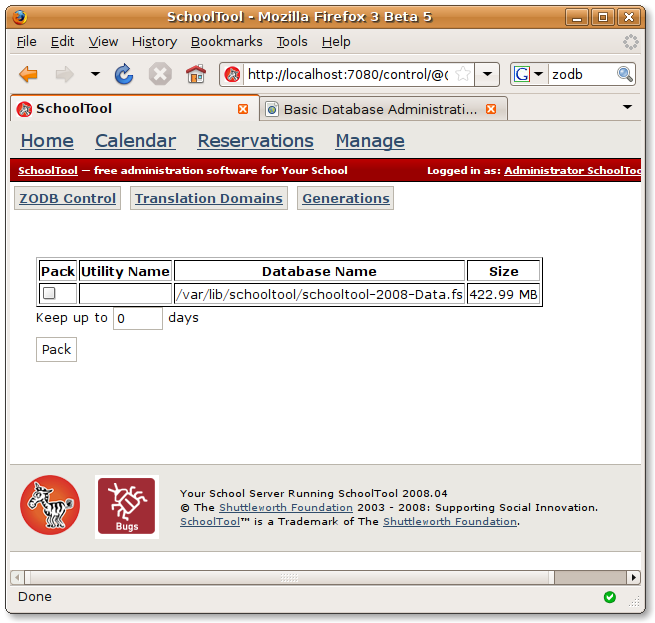
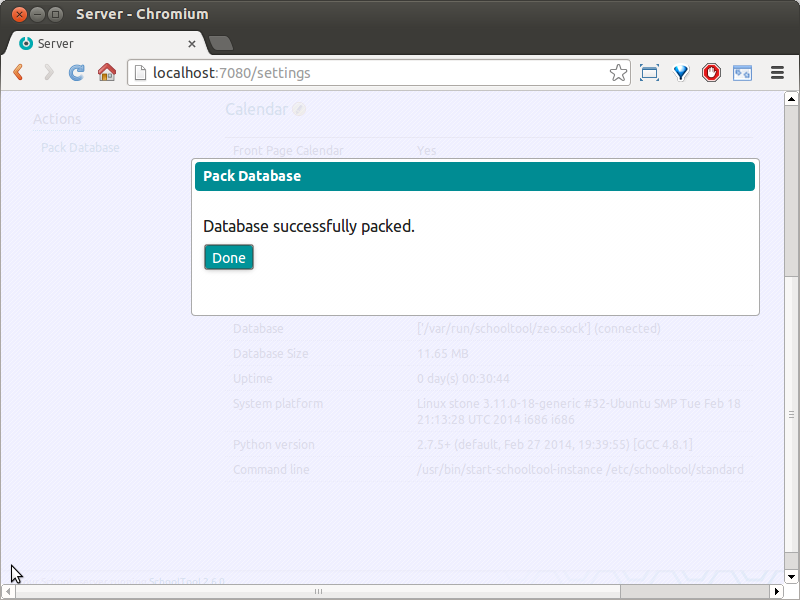
Updated database page and replaced 1.x packing image.

diff --git a/source/database.rst b/source/database.rst
@@ -3,6 +3,10 @@ Basic Database Administration
 
 Unlike most web applications, SchoolTool does not use a relational database such as MySQL or PostgreSQL.  Instead, it uses ZODB -- the Zope Object Database.  ZODB has some specific characteristics a SchoolTool site manager should be aware of.
 
+The main drawback to this, from the point of view of a school's systems administrator or programmer, is that you cannot simply directly access data in the form of raw tables.  It has to be done programmatically in Python, either from a module in the main server application, or an external Python script that imports much of SchoolTool's object model.  
+
+If you have specific needs for data reporting, don't hesitate to contact us. 
+
 Where is the data?
 ------------------
 
@@ -62,11 +66,11 @@ Delete the ``Data.fs`` file and the ``blobs`` directory.  This is, of course, pe
 Packing the database.
 ---------------------
 
-The ZODB is designed to keep a record of transactions, which can be used by an application to allow "undo" functionality.  One implication of this, however, is that the database file grows in size as it stores a longer and longer list of changes to each object.  To shrink the database back to a more efficient size, one can "pack" it.  
+The ZODB is designed to keep a record of transactions, which can be used by an application to allow "undo" functionality.  One implication of this, however, is that the database file grows in size as it stores a longer and longer list of changes to each object.  To shrink the database back to a more efficient size, one can "pack" it.  Because SchoolTool does not allow you to undo transactions, there is no practical reason not to pack the database.  
 
-Because SchoolTool does not allow you to undo transactions, you can pack the database at any time.  It does not have to be done very frequently -- certainly not daily.  Packing the database monthly or weekly should suffice, but your mileage may vary.  It may be something you do prior to high demand periods, such as before teachers submit grades.  Backing up your database prior to packing it should not be necessary, but nonetheless it is not a bad idea.
+Packing the database does not have to be done very frequently -- certainly not daily.  Monthly or weekly should suffice, but your mileage may vary depending on the intensity of usage.  It may be something you do prior to high demand periods, such as before teachers submit grades.  Backing up your database prior to packing it should not be necessary, but nonetheless it is not a bad idea.
 
-To pack the database via the web, you must be logged in as "manager." Navigate to the **Server** tab at the top of the page, then click on **Actions: Pack Database**:
+To pack the database via the web, you must be logged in as a member of "Site Managers." Navigate to the **Server** tab at the top of the page, then click on **Actions: Pack Database**.  You will see a spinner indicating that packing is in progress.  If you stay on the page, you will get a confirmation dialog:
 
    .. image:: images/packing.png
 
